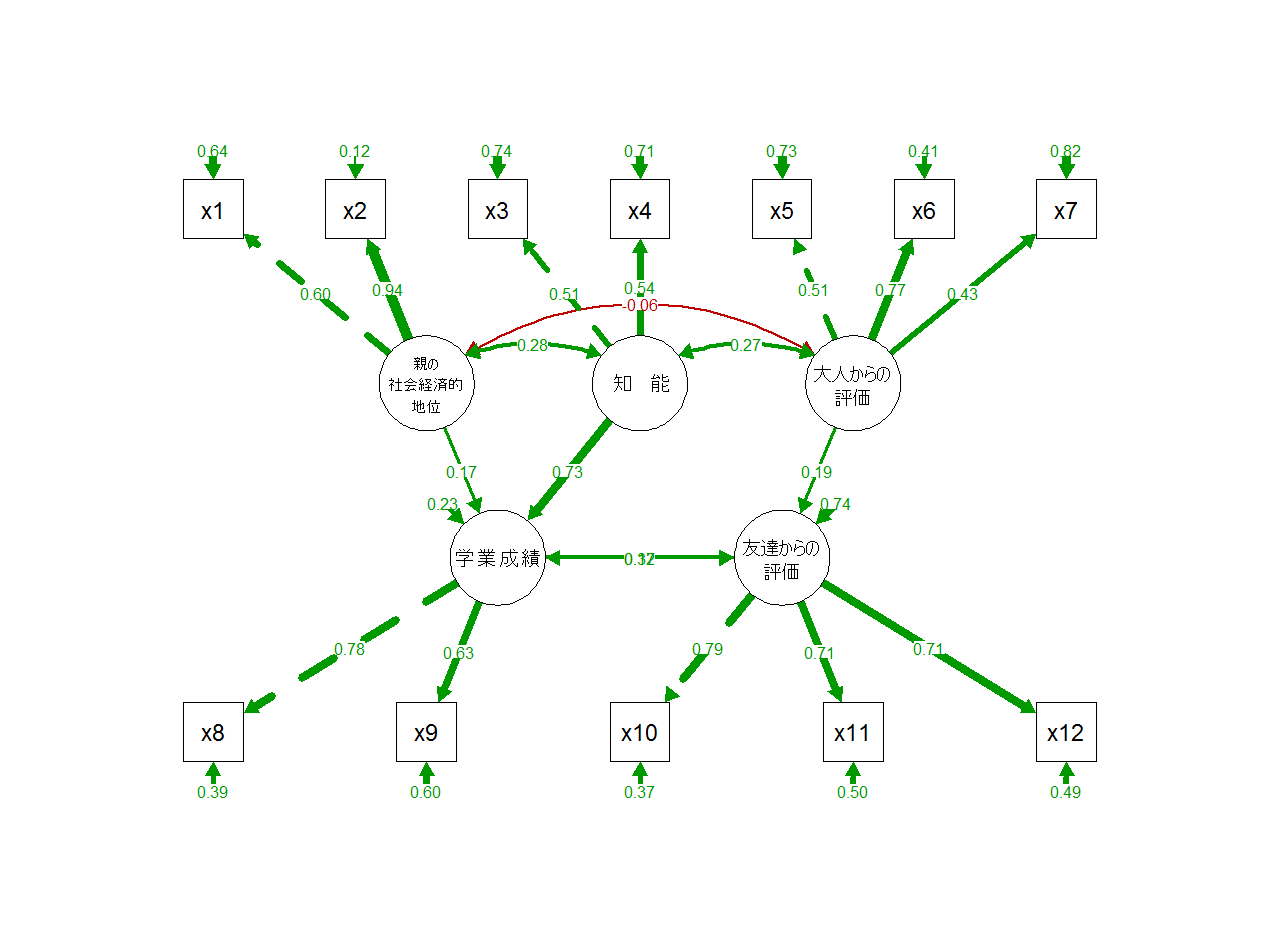
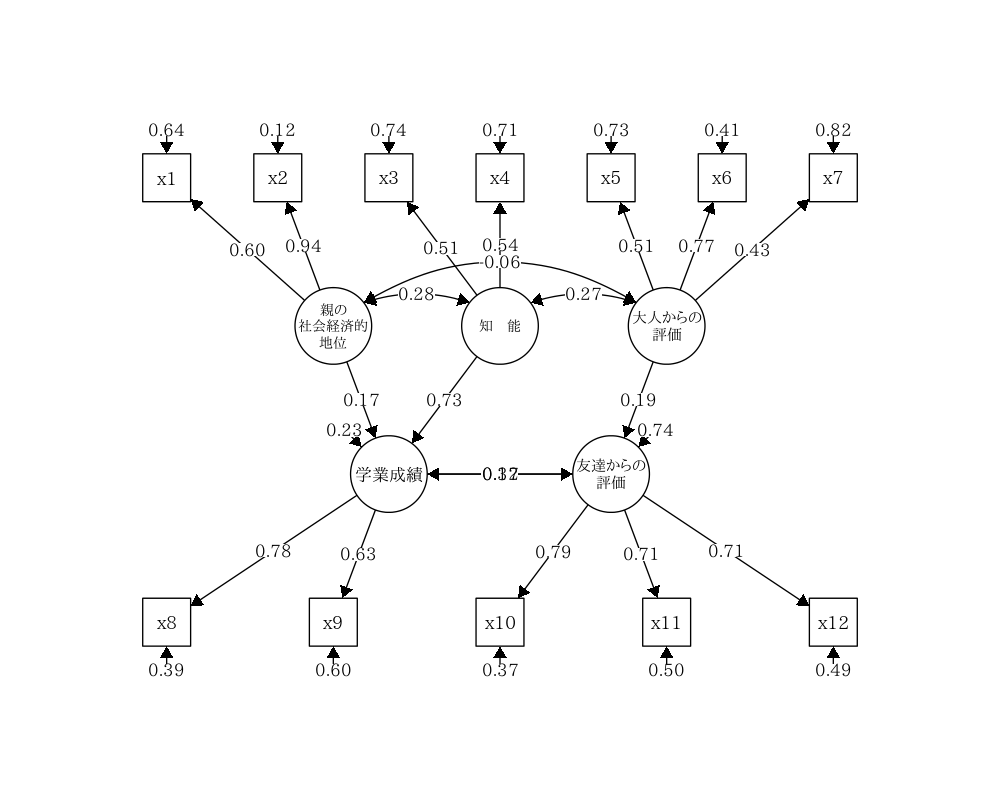
Site updated: 2014-12-07 15:08:21

diff --git a/2014/12/07/共分散行列を利用4/index.html b/2014/12/07/共分散行列を利用4/index.html
@@ -98,7 +98,7 @@
         <section id="main"><article id="post-共分散行列を利用4" class="article article-type-post" itemscope itemprop="blogPost">
   <div class="article-meta">
     <a href="/2014/12/07/共分散行列を利用4/" class="article-date">
-  <time datetime="2014-12-07T04:23:32.000Z" itemprop="datePublished">Dec 7 2014</time>
+  <time datetime="2014-12-07T06:07:07.000Z" itemprop="datePublished">Dec 7 2014</time>
 </a>
     
   <div class="article-category">
@@ -133,7 +133,7 @@
 <p>graphvizを使った図</p>
 <p><img src="/images/cov03_2.png" alt=""></p>
 <h5 id="p-186_双方向の因果関係_図表_補-6_p-241">p.186 双方向の因果関係 図表 補-6 p.241</h5>
-<figure class="highlight"><table><tr><td class="gutter"><pre><div class="line">1</div><div class="line">2</div><div class="line">3</div><div class="line">4</div><div class="line">5</div><div class="line">6</div><div class="line">7</div><div class="line">8</div><div class="line">9</div><div class="line">10</div><div class="line">11</div><div class="line">12</div><div class="line">13</div><div class="line">14</div><div class="line">15</div><div class="line">16</div><div class="line">17</div><div class="line">18</div><div class="line">19</div><div class="line">20</div><div class="line">21</div><div class="line">22</div><div class="line">23</div><div class="line">24</div><div class="line">25</div><div class="line">26</div><div class="line">27</div><div class="line">28</div><div class="line">29</div><div class="line">30</div><div class="line">31</div><div class="line">32</div><div class="line">33</div><div class="line">34</div><div class="line">35</div><div class="line">36</div><div class="line">37</div></pre></td><td class="code"><pre><div class="line">library(lavaan)</div><div class="line">library(semPlot)</div><div class="line">mat&lt;-'</div><div class="line"><span class="number">1</span></div><div class="line"><span class="number">0.56</span> <span class="number">1</span></div><div class="line"><span class="number">0.06</span> <span class="number">0.05</span> <span class="number">1</span></div><div class="line"><span class="number">0.16</span> <span class="number">0.21</span> <span class="number">0.32</span> <span class="number">1</span></div><div class="line"><span class="number">0.01</span> -<span class="number">0.04</span> <span class="number">0.1</span> -<span class="number">0.06</span> <span class="number">1</span></div><div class="line">-<span class="number">0.07</span> -<span class="number">0.05</span> <span class="number">0.16</span> -<span class="number">0.07</span> <span class="number">0.42</span> <span class="number">1</span></div><div class="line">-<span class="number">0.02</span> -<span class="number">0.01</span> <span class="number">0.14</span> <span class="number">0.08</span> <span class="number">0.18</span> <span class="number">0.31</span> <span class="number">1</span></div><div class="line"><span class="number">0.17</span> <span class="number">0.3</span> <span class="number">0.29</span> <span class="number">0.4</span> <span class="number">0.01</span> <span class="number">0.13</span> <span class="number">0.21</span> <span class="number">1</span></div><div class="line"><span class="number">0.16</span> <span class="number">0.21</span> <span class="number">0.28</span> <span class="number">0.19</span> <span class="number">0.12</span> <span class="number">0.27</span> <span class="number">0.27</span> <span class="number">0.5</span> <span class="number">1</span></div><div class="line"><span class="number">0.05</span> <span class="number">0.04</span> <span class="number">0.08</span> <span class="number">0.13</span> <span class="number">0.07</span> <span class="number">0.15</span> <span class="number">0.25</span> <span class="number">0.28</span> <span class="number">0.24</span> <span class="number">1</span></div><div class="line"><span class="number">0.1</span> <span class="number">0.1</span> <span class="number">0.09</span> <span class="number">0.17</span> <span class="number">0.02</span> <span class="number">0.08</span> <span class="number">0.08</span> <span class="number">0.23</span> <span class="number">0.18</span> <span class="number">0.59</span> <span class="number">1</span></div><div class="line"><span class="number">0.1</span> <span class="number">0.17</span> <span class="number">0.14</span> <span class="number">0.17</span> <span class="number">0.08</span> <span class="number">0.17</span> <span class="number">0.33</span> <span class="number">0.32</span> <span class="number">0.4</span> <span class="number">0.55</span> <span class="number">0.49</span> <span class="number">1</span></div><div class="line">'</div><div class="line">wheaton.cov &lt;- getCov(mat,<span class="variable">names=</span>c(<span class="string">"x1"</span>,<span class="string">"x2"</span>,<span class="string">"x3"</span>,<span class="string">"x4"</span>,<span class="string">"x5"</span>,<span class="string">"x6"</span>,<span class="string">"x7"</span>,<span class="string">"x8"</span>,<span class="string">"x9"</span>,<span class="string">"x10"</span>,<span class="string">"x11"</span>,<span class="string">"x12"</span>))</div><div class="line">model&lt;-'</div><div class="line"><span class="variable">F1=</span>~x1+x2</div><div class="line"><span class="variable">F2=</span>~x3+x4</div><div class="line"><span class="variable">F3=</span>~x5+x6+x7</div><div class="line"><span class="variable">F4=</span>~x8+x9</div><div class="line"><span class="variable">F5=</span>~x10+x11+x12</div><div class="line">F1~~F2</div><div class="line">F1~~F3</div><div class="line">F2~~F3</div><div class="line">F4~F1+F2</div><div class="line">F5~F3</div><div class="line">F5~F4</div><div class="line">F4~F5</div><div class="line">'</div><div class="line">fit &lt;- lavaan:::sem(model, sample.<span class="variable">cov=</span>wheaton.cov, sample.<span class="variable">nobs=</span><span class="number">249</span>)</div><div class="line">summary(fit, <span class="variable">standardized=</span>TRUE)</div><div class="line">manifests&lt;-c(<span class="string">"x1"</span>,<span class="string">"x2"</span>,<span class="string">"x3"</span>,<span class="string">"x4"</span>,<span class="string">"x5"</span>,<span class="string">"x6"</span>,<span class="string">"x7"</span>,<span class="string">"x8"</span>,<span class="string">"x9"</span>,<span class="string">"x10"</span>,<span class="string">"x11"</span>,<span class="string">"x12"</span>)</div><div class="line">latents&lt;-c(<span class="string">"F1"</span>,<span class="string">"F2"</span>,<span class="string">"F3"</span>,<span class="string">"F4"</span>,<span class="string">"F5"</span>)</div><div class="line"><span class="variable">labels=</span>c(<span class="string">"x1"</span>,<span class="string">"x2"</span>,<span class="string">"x3"</span>,<span class="string">"x4"</span>,<span class="string">"x5"</span>,<span class="string">"x6"</span>,<span class="string">"x7"</span>,<span class="string">"x8"</span>,<span class="string">"x9"</span>,<span class="string">"x10"</span>,<span class="string">"x11"</span>,<span class="string">"x12"</span>,<span class="string">"親の\n社会経済的\n地位"</span>,<span class="string">"　知　能　"</span>,<span class="string">"大人からの\n評価"</span>,<span class="string">"学業成績"</span>,<span class="string">"友達からの\n評価"</span>)</div><div class="line">semPaths(fit,<span class="string">"std"</span>,<span class="variable">fade=</span>F,<span class="variable">manifests=</span>manifests,<span class="variable">latents=</span>latents,<span class="variable">nodeLabels=</span>labels,<span class="variable">style=</span><span class="string">"lisrel"</span>)</div></pre></td></tr></table></figure>
+<figure class="highlight"><table><tr><td class="gutter"><pre><div class="line">1</div><div class="line">2</div><div class="line">3</div><div class="line">4</div><div class="line">5</div><div class="line">6</div><div class="line">7</div><div class="line">8</div><div class="line">9</div><div class="line">10</div><div class="line">11</div><div class="line">12</div><div class="line">13</div><div class="line">14</div><div class="line">15</div><div class="line">16</div><div class="line">17</div><div class="line">18</div><div class="line">19</div><div class="line">20</div><div class="line">21</div><div class="line">22</div><div class="line">23</div><div class="line">24</div><div class="line">25</div><div class="line">26</div><div class="line">27</div><div class="line">28</div><div class="line">29</div><div class="line">30</div><div class="line">31</div><div class="line">32</div><div class="line">33</div><div class="line">34</div><div class="line">35</div><div class="line">36</div><div class="line">37</div><div class="line">38</div><div class="line">39</div></pre></td><td class="code"><pre><div class="line">library(lavaan)</div><div class="line">library(semPlot)</div><div class="line">mat&lt;-'</div><div class="line"><span class="number">1</span></div><div class="line"><span class="number">0.56</span> <span class="number">1</span></div><div class="line"><span class="number">0.06</span> <span class="number">0.05</span> <span class="number">1</span></div><div class="line"><span class="number">0.16</span> <span class="number">0.21</span> <span class="number">0.32</span> <span class="number">1</span></div><div class="line"><span class="number">0.01</span> -<span class="number">0.04</span> <span class="number">0.1</span> -<span class="number">0.06</span> <span class="number">1</span></div><div class="line">-<span class="number">0.07</span> -<span class="number">0.05</span> <span class="number">0.16</span> -<span class="number">0.07</span> <span class="number">0.42</span> <span class="number">1</span></div><div class="line">-<span class="number">0.02</span> -<span class="number">0.01</span> <span class="number">0.14</span> <span class="number">0.08</span> <span class="number">0.18</span> <span class="number">0.31</span> <span class="number">1</span></div><div class="line"><span class="number">0.17</span> <span class="number">0.3</span> <span class="number">0.29</span> <span class="number">0.4</span> <span class="number">0.01</span> <span class="number">0.13</span> <span class="number">0.21</span> <span class="number">1</span></div><div class="line"><span class="number">0.16</span> <span class="number">0.21</span> <span class="number">0.28</span> <span class="number">0.19</span> <span class="number">0.12</span> <span class="number">0.27</span> <span class="number">0.27</span> <span class="number">0.5</span> <span class="number">1</span></div><div class="line"><span class="number">0.05</span> <span class="number">0.04</span> <span class="number">0.08</span> <span class="number">0.13</span> <span class="number">0.07</span> <span class="number">0.15</span> <span class="number">0.25</span> <span class="number">0.28</span> <span class="number">0.24</span> <span class="number">1</span></div><div class="line"><span class="number">0.1</span> <span class="number">0.1</span> <span class="number">0.09</span> <span class="number">0.17</span> <span class="number">0.02</span> <span class="number">0.08</span> <span class="number">0.08</span> <span class="number">0.23</span> <span class="number">0.18</span> <span class="number">0.59</span> <span class="number">1</span></div><div class="line"><span class="number">0.1</span> <span class="number">0.17</span> <span class="number">0.14</span> <span class="number">0.17</span> <span class="number">0.08</span> <span class="number">0.17</span> <span class="number">0.33</span> <span class="number">0.32</span> <span class="number">0.4</span> <span class="number">0.55</span> <span class="number">0.49</span> <span class="number">1</span></div><div class="line">'</div><div class="line">wheaton.cov &lt;- getCov(mat,<span class="variable">names=</span>c(<span class="string">"x1"</span>,<span class="string">"x2"</span>,<span class="string">"x3"</span>,<span class="string">"x4"</span>,<span class="string">"x5"</span>,<span class="string">"x6"</span>,<span class="string">"x7"</span>,<span class="string">"x8"</span>,<span class="string">"x9"</span>,<span class="string">"x10"</span>,<span class="string">"x11"</span>,<span class="string">"x12"</span>))</div><div class="line">model&lt;-'</div><div class="line"><span class="variable">F1=</span>~x1+x2</div><div class="line"><span class="variable">F2=</span>~x3+x4</div><div class="line"><span class="variable">F3=</span>~x5+x6+x7</div><div class="line"><span class="variable">F4=</span>~x8+x9</div><div class="line"><span class="variable">F5=</span>~x10+x11+x12</div><div class="line">F1~~F2</div><div class="line">F1~~F3</div><div class="line">F2~~F3</div><div class="line">F4~F1+F2</div><div class="line">F5~F3</div><div class="line">F5~F4</div><div class="line">F4~F5</div><div class="line">'</div><div class="line">fit &lt;- lavaan:::sem(model, sample.<span class="variable">cov=</span>wheaton.cov, sample.<span class="variable">nobs=</span><span class="number">249</span>)</div><div class="line">summary(fit, <span class="variable">standardized=</span>TRUE)</div><div class="line">manifests&lt;-c(<span class="string">"x1"</span>,<span class="string">"x2"</span>,<span class="string">"x3"</span>,<span class="string">"x4"</span>,<span class="string">"x5"</span>,<span class="string">"x6"</span>,<span class="string">"x7"</span>,<span class="string">"x8"</span>,<span class="string">"x9"</span>,<span class="string">"x10"</span>,<span class="string">"x11"</span>,<span class="string">"x12"</span>)</div><div class="line">latents&lt;-c(<span class="string">"F1"</span>,<span class="string">"F2"</span>,<span class="string">"F3"</span>,<span class="string">"F4"</span>,<span class="string">"F5"</span>)</div><div class="line"><span class="variable">labels=</span>c(<span class="string">"x1"</span>,<span class="string">"x2"</span>,<span class="string">"x3"</span>,<span class="string">"x4"</span>,<span class="string">"x5"</span>,<span class="string">"x6"</span>,<span class="string">"x7"</span>,<span class="string">"x8"</span>,<span class="string">"x9"</span>,<span class="string">"x10"</span>,<span class="string">"x11"</span>,<span class="string">"x12"</span>,<span class="string">"親の\n社会経済的\n地位"</span>,<span class="string">"　知　能　"</span>,<span class="string">"大人からの\n評価"</span>,<span class="string">"学業成績"</span>,<span class="string">"友達からの\n評価"</span>)</div><div class="line"><span class="comment">#png("graph.png", family="Takao P明朝", width=1000, height=800)</span></div><div class="line">semPaths(fit,<span class="string">"std"</span>,<span class="variable">fade=</span>F,<span class="variable">manifests=</span>manifests,<span class="variable">latents=</span>latents,<span class="variable">nodeLabels=</span>labels,<span class="variable">style=</span><span class="string">"lisrel"</span>,<span class="variable">gray=</span>T,edge.label.<span class="variable">cex=</span><span class="number">0.8</span>,<span class="variable">esize=</span>TRUE,<span class="variable">fixedStyle=</span>c(<span class="string">"black"</span>,<span class="number">1</span>), <span class="variable">freeStyle=</span>c(<span class="string">"black"</span>,<span class="number">1</span>))</div><div class="line"><span class="comment">#dev.off()</span></div></pre></td></tr></table></figure>
 
 <p><img src="/images/cov04.png" alt=""></p>
 <ul>
@@ -146,9 +146,9 @@
 <li>RSVGTipsDevice:::devSVGTips関数（UTF-8の文字列を書き込むので後で変更可）</li>
 </ul>
 <p>ここではsvg()関数を使う。</p>
-<figure class="highlight"><table><tr><td class="gutter"><pre><div class="line">1</div><div class="line">2</div><div class="line">3</div><div class="line">4</div></pre></td><td class="code"><pre><div class="line"><span class="comment">#標準（cairo）の svg() を使う(日本語のフォント名を指定する必要があり)</span></div><div class="line">svg(<span class="string">"graph.svg"</span>, <span class="variable">family=</span><span class="string">"Takao P明朝"</span>, <span class="variable">width=</span><span class="number">12</span>, <span class="variable">height=</span><span class="number">10</span>)</div><div class="line">semPaths(fit,<span class="string">"std"</span>,<span class="variable">fade=</span>F,<span class="variable">manifests=</span>manifests,<span class="variable">latents=</span>latents,<span class="variable">nodeLabels=</span>labels,<span class="variable">style=</span><span class="string">"lisrel"</span>)</div><div class="line">dev.off()</div></pre></td></tr></table></figure>
+<figure class="highlight"><table><tr><td class="gutter"><pre><div class="line">1</div><div class="line">2</div><div class="line">3</div><div class="line">4</div></pre></td><td class="code"><pre><div class="line"><span class="comment">#標準（cairo）の svg() を使う(日本語のフォント名を指定する必要があり)</span></div><div class="line">svg(<span class="string">"graph.svg"</span>, <span class="variable">family=</span><span class="string">"Takao P明朝"</span>, <span class="variable">width=</span><span class="number">12</span>, <span class="variable">height=</span><span class="number">10</span>)</div><div class="line">semPaths(fit,<span class="string">"std"</span>,<span class="variable">fade=</span>F,<span class="variable">manifests=</span>manifests,<span class="variable">latents=</span>latents,<span class="variable">nodeLabels=</span>labels,<span class="variable">style=</span><span class="string">"lisrel"</span>,<span class="variable">gray=</span>T,edge.label.<span class="variable">cex=</span><span class="number">0.8</span>,<span class="variable">esize=</span>TRUE,<span class="variable">fixedStyle=</span>c(<span class="string">"black"</span>,<span class="number">1</span>), <span class="variable">freeStyle=</span>c(<span class="string">"black"</span>,<span class="number">1</span>))</div><div class="line">dev.off()</div></pre></td></tr></table></figure>
 
-<p>Inkscapeを使って重なった部分を上下に分離する</p>
+<p>Inkscapeを使って重なった部分を上下に分離する。<br>-0.06を赤字にする。</p>
 <p><img src="/images/cov04_1.png" alt=""></p>
 <p>graphvizを使った図（手を加えても綺麗な図にならなかった）</p>
 <p><img src="/images/cov04_2.png" alt=""></p>

diff --git a/archives/2014/12/index.html b/archives/2014/12/index.html
@@ -95,7 +95,7 @@
     <article id="post-共分散行列を利用4" class="article article-type-post" itemscope itemprop="blogPost">
   <div class="article-meta">
     <a href="/2014/12/07/共分散行列を利用4/" class="article-date">
-  <time datetime="2014-12-07T04:23:32.000Z" itemprop="datePublished">Dec 7 2014</time>
+  <time datetime="2014-12-07T06:07:07.000Z" itemprop="datePublished">Dec 7 2014</time>
 </a>
     
   <div class="article-category">

diff --git a/archives/2014/index.html b/archives/2014/index.html
@@ -95,7 +95,7 @@
     <article id="post-共分散行列を利用4" class="article article-type-post" itemscope itemprop="blogPost">
   <div class="article-meta">
     <a href="/2014/12/07/共分散行列を利用4/" class="article-date">
-  <time datetime="2014-12-07T04:23:32.000Z" itemprop="datePublished">Dec 7 2014</time>
+  <time datetime="2014-12-07T06:07:07.000Z" itemprop="datePublished">Dec 7 2014</time>
 </a>
     
   <div class="article-category">

diff --git a/archives/index.html b/archives/index.html
@@ -95,7 +95,7 @@
     <article id="post-共分散行列を利用4" class="article article-type-post" itemscope itemprop="blogPost">
   <div class="article-meta">
     <a href="/2014/12/07/共分散行列を利用4/" class="article-date">
-  <time datetime="2014-12-07T04:23:32.000Z" itemprop="datePublished">Dec 7 2014</time>
+  <time datetime="2014-12-07T06:07:07.000Z" itemprop="datePublished">Dec 7 2014</time>
 </a>
     
   <div class="article-category">

diff --git a/categories/R/index.html b/categories/R/index.html
@@ -95,7 +95,7 @@
     <article id="post-共分散行列を利用4" class="article article-type-post" itemscope itemprop="blogPost">
   <div class="article-meta">
     <a href="/2014/12/07/共分散行列を利用4/" class="article-date">
-  <time datetime="2014-12-07T04:23:32.000Z" itemprop="datePublished">Dec 7 2014</time>
+  <time datetime="2014-12-07T06:07:07.000Z" itemprop="datePublished">Dec 7 2014</time>
 </a>
     
   <div class="article-category">

diff --git a/index.html b/index.html
@@ -95,7 +95,7 @@
     <article id="post-共分散行列を利用4" class="article article-type-post" itemscope itemprop="blogPost">
   <div class="article-meta">
     <a href="/2014/12/07/共分散行列を利用4/" class="article-date">
-  <time datetime="2014-12-07T04:23:32.000Z" itemprop="datePublished">Dec 7 2014</time>
+  <time datetime="2014-12-07T06:07:07.000Z" itemprop="datePublished">Dec 7 2014</time>
 </a>
     
   <div class="article-category">

diff --git a/tags/Rパッケージ/index.html b/tags/Rパッケージ/index.html
@@ -95,7 +95,7 @@
     <article id="post-共分散行列を利用4" class="article article-type-post" itemscope itemprop="blogPost">
   <div class="article-meta">
     <a href="/2014/12/07/共分散行列を利用4/" class="article-date">
-  <time datetime="2014-12-07T04:23:32.000Z" itemprop="datePublished">Dec 7 2014</time>
+  <time datetime="2014-12-07T06:07:07.000Z" itemprop="datePublished">Dec 7 2014</time>
 </a>
     
   <div class="article-category">
